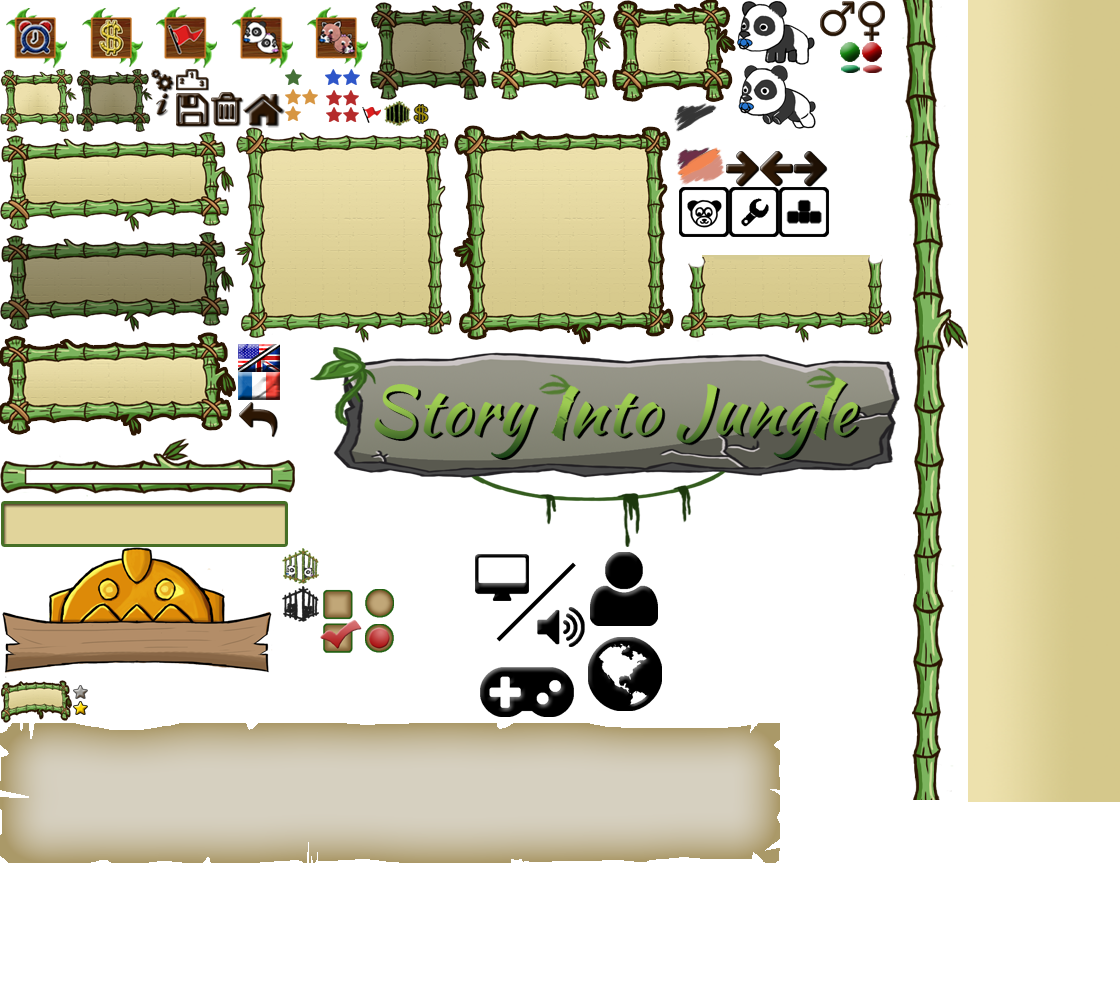
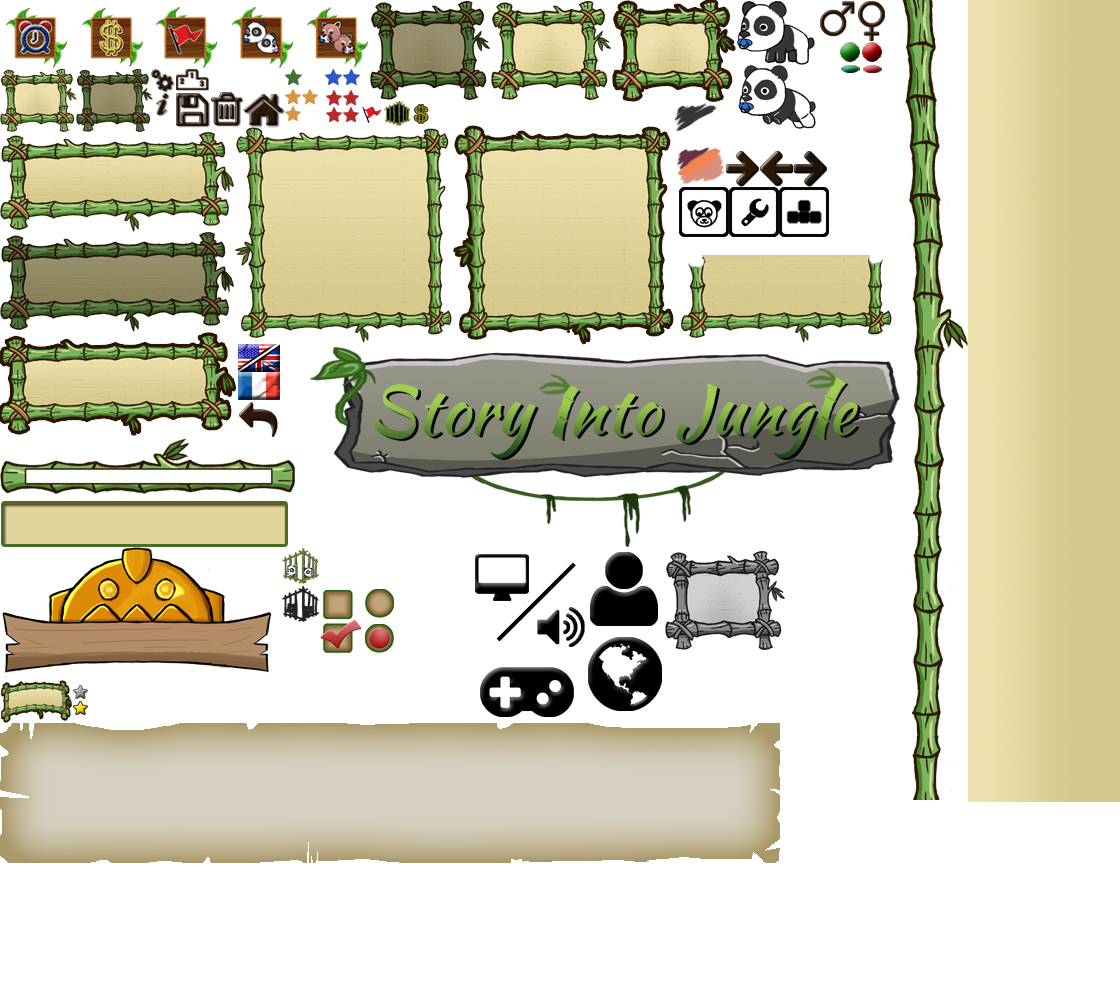
manage disabled buttons into save scene

Changed region(s): [[0.5938, 0.558, 0.7188, 0.651]]

diff --git a/src/states/SavesState.java b/src/states/SavesState.java
@@ -87,6 +87,7 @@ public class SavesState extends BaseState
             b.setPosition(coords[i][0], coords[i][1]);
             b.addApearance(GuiComponent.Status.NEUTRAL, m_gui.getSubimage(491, 1, 120, 99));
             b.addApearance(GuiComponent.Status.FOCUSED, m_gui.getSubimage(370, 1, 120, 99));
+            b.addApearance(GuiComponent.Status.DISABLED, m_gui.getSubimage(665, 551, 120, 99));
             b.addCallback(GuiComponent.Status.CLICKED, callbacks[i], this);
             m_guiElements.add(b);
         }
@@ -221,6 +222,33 @@ public class SavesState extends BaseState
             else if(element.getStatus() == GuiComponent.Status.CLICKED)
             {
                 element.onRelease();
+            }
+            
+            if(element instanceof ButtonGroup)
+            {
+                ButtonGroup bg = (ButtonGroup)element;
+                ArrayList<Button> bl = bg.getButtons();
+                bl.stream().map((b) -> (SaveSlot)b).forEachOrdered((ss) ->
+                {
+                    if(ss.isChecked() && ss.isEmpty())
+                    {
+                        IconButton ib1 = (IconButton)m_guiElements.get(0);
+                        IconButton ib2 = (IconButton)m_guiElements.get(1);
+                        ib1.setStatus(GuiComponent.Status.DISABLED);
+                        ib1.setDisabled(true);
+                        ib2.setStatus(GuiComponent.Status.DISABLED);
+                        ib2.setDisabled(true);
+                    }
+                    else if(ss.isChecked())
+                    {
+                        IconButton ib1 = (IconButton)m_guiElements.get(0);
+                        IconButton ib2 = (IconButton)m_guiElements.get(1);
+                        ib1.setStatus(GuiComponent.Status.NEUTRAL);
+                        ib1.setDisabled(false);
+                        ib2.setStatus(GuiComponent.Status.NEUTRAL);
+                        ib2.setDisabled(false);
+                    }
+                });
             }
         });
     }

diff --git a/src/core/gui/GuiComponent.java b/src/core/gui/GuiComponent.java
@@ -21,6 +21,7 @@ public abstract class GuiComponent
     protected Color m_color;
     protected int m_width, m_height;
     protected BaseState m_owner;
+    protected boolean m_disabled;
 
     public enum Status
     {
@@ -81,6 +82,11 @@ public abstract class GuiComponent
         }
     }
 
+    public void setDisabled(boolean disabled)
+    {
+        m_disabled = disabled;
+    }
+    
     private void calculateBounds()
     {
         if (m_appearances.containsKey(m_status))
@@ -119,7 +125,7 @@ public abstract class GuiComponent
             return;
         }
 
-        if (m_callbacks.containsKey(status))
+        if(!m_disabled && m_callbacks.containsKey(status))
         {
             Callback c = m_callbacks.get(status);
             try
